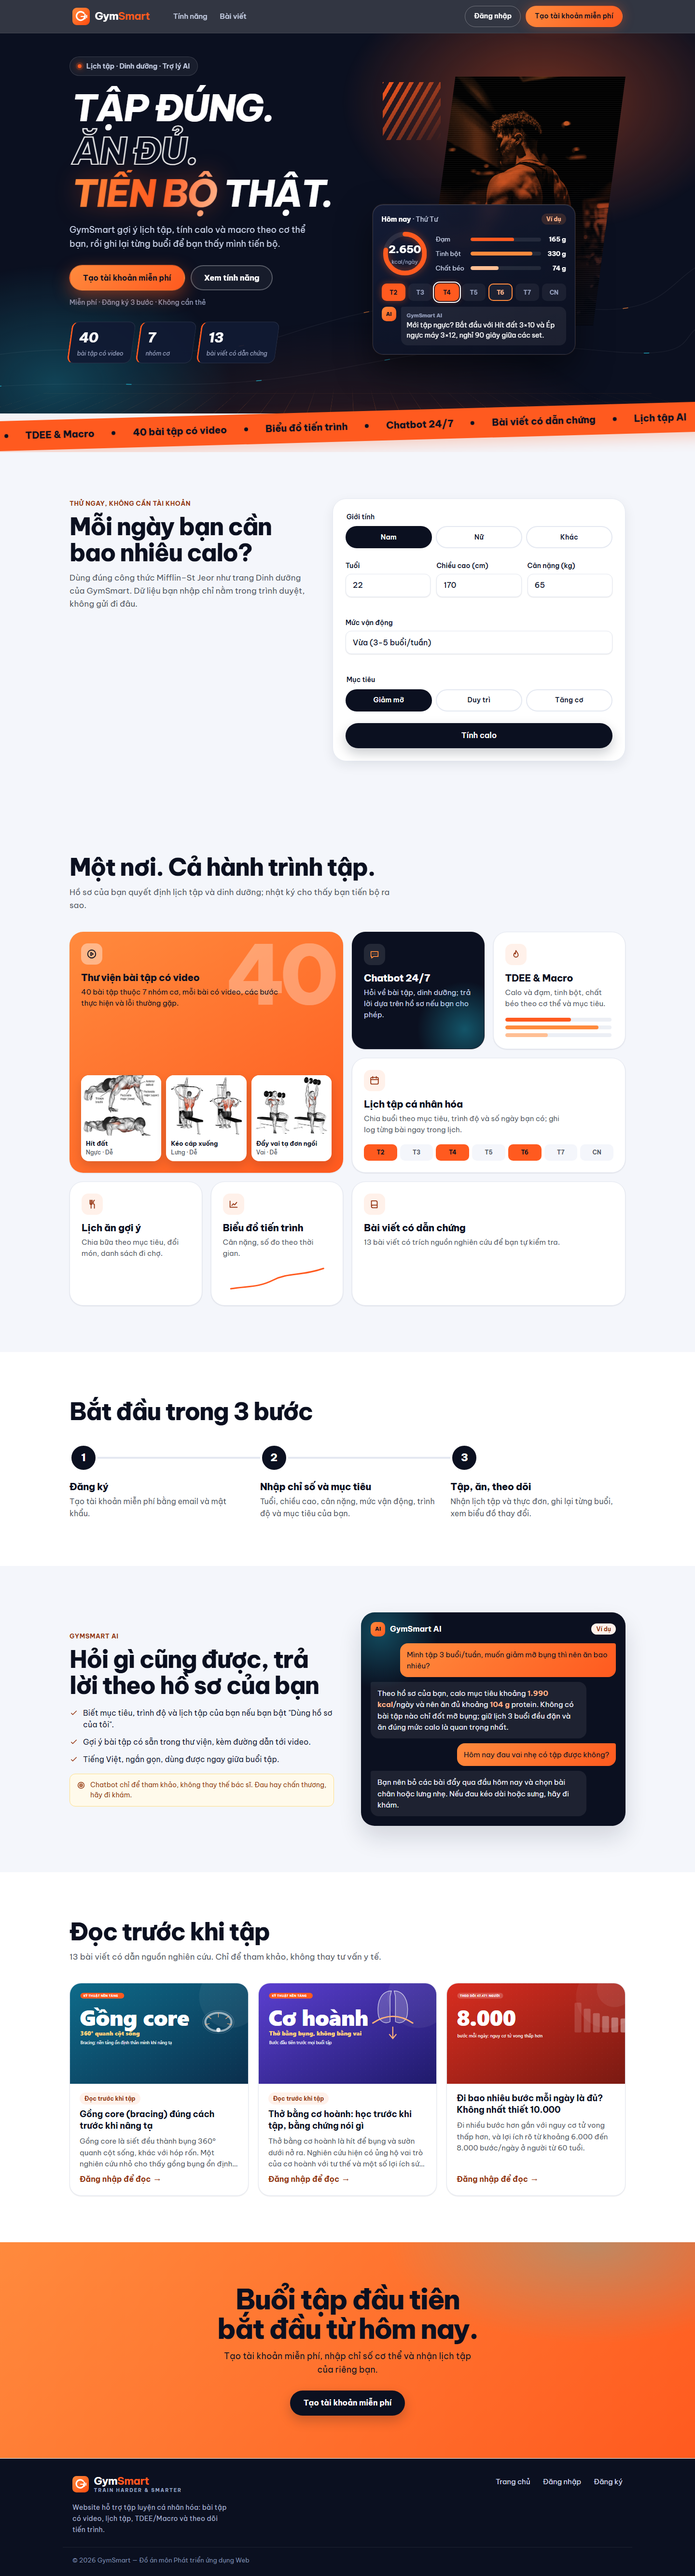
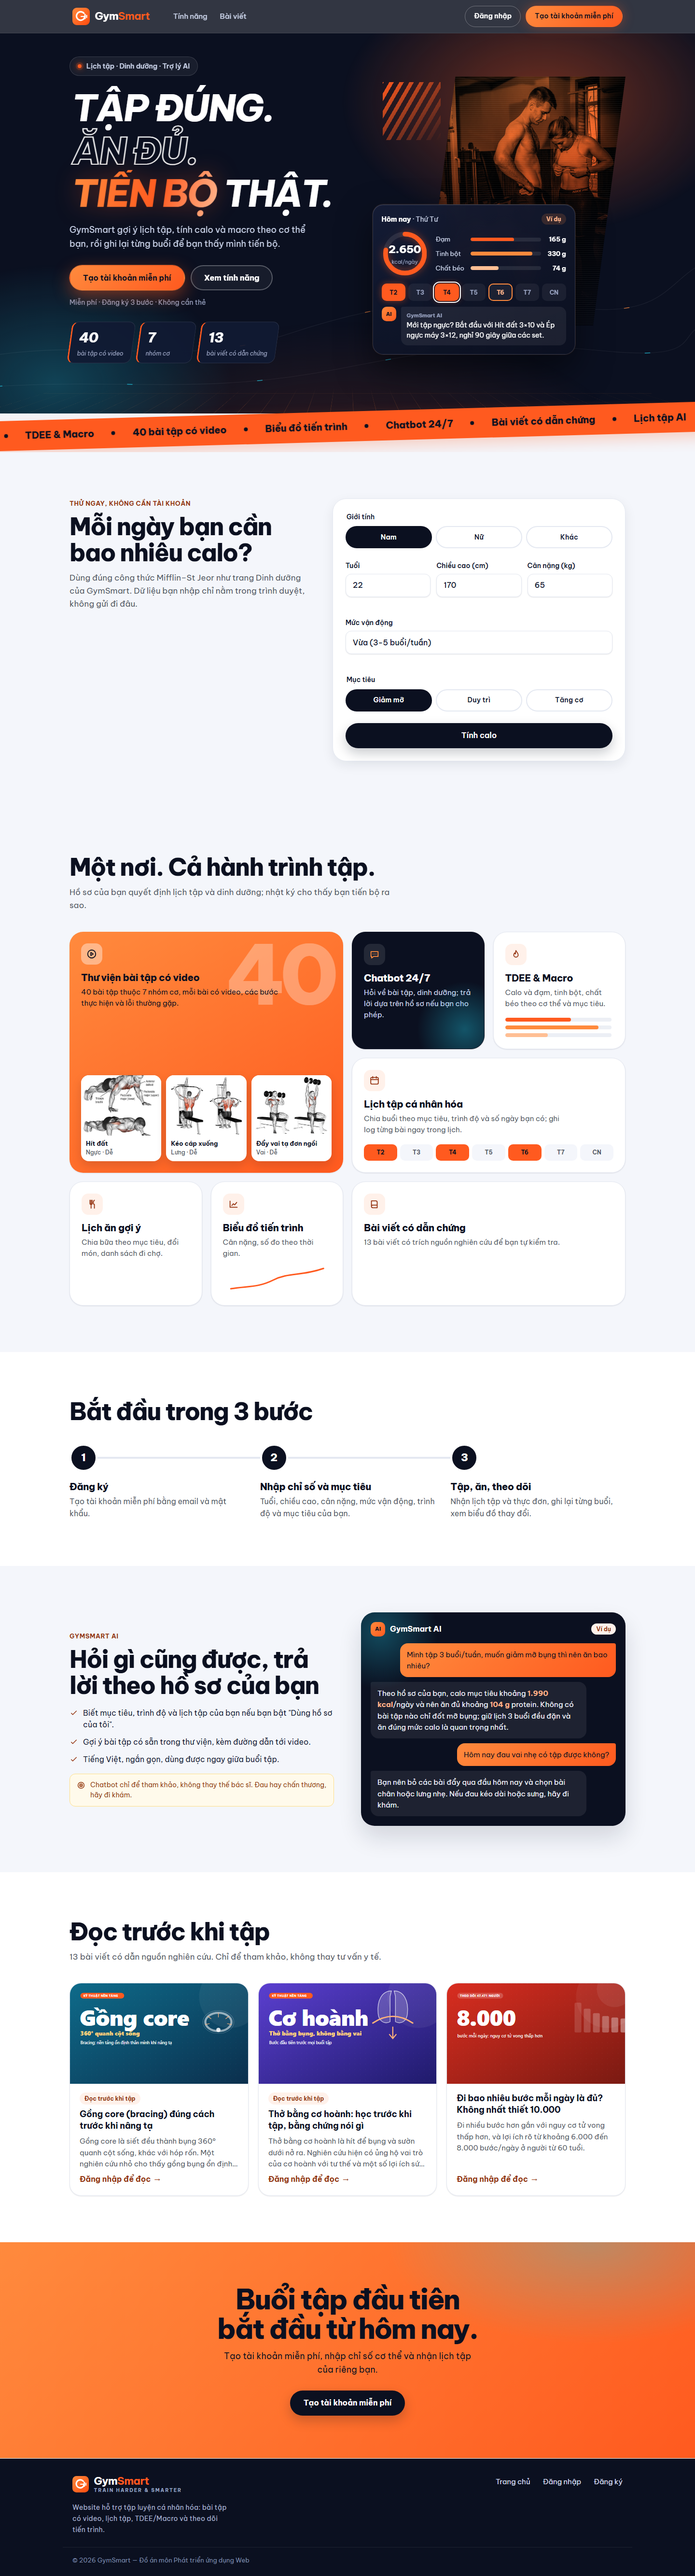
Ảnh hero mới: cặp nam nữ tập gym (Pexels, Andrej Klintsy), ghi nguồn CREDITS, cập nhật ảnh chụp trang chủ

Changed region(s): [[0.625, 0.0311, 0.9062, 0.0934]]

diff --git a/public/css/home-guest.css b/public/css/home-guest.css
@@ -105,7 +105,7 @@ body:has(.gh-hero) :is(a, button, input, select):focus-visible { outline: 3px so
 /* Ảnh cắt hình bình hành, nhuộm hai tông cam/đen, phủ vạch quét kiểu màn hình */
 .gh-stage__photo { position: absolute; top: 24px; right: 0; width: 80%; height: 86%; z-index: 1; overflow: hidden;
     clip-path: polygon(16% 0, 100% 0, 84% 100%, 0 100%); background: linear-gradient(160deg, var(--accent-2), var(--accent) 55%, var(--ink-2)); }
-.gh-stage__photo img { display: block; width: 100%; height: 100%; object-fit: cover; object-position: 50% 20%; filter: grayscale(1) contrast(1.15); mix-blend-mode: multiply; }
+.gh-stage__photo img { display: block; width: 100%; height: 100%; object-fit: cover; object-position: 50% 8%; filter: grayscale(1) contrast(1.15); mix-blend-mode: multiply; }
 .gh-stage__photo::after { content: ""; position: absolute; inset: 0; background: linear-gradient(180deg, transparent 40%, rgba(7, 11, 24, .75)); }
 .gh-stage__scan { position: absolute; inset: 0; z-index: 1; background: repeating-linear-gradient(180deg, rgba(255, 255, 255, .06) 0 1px, transparent 1px 4px); pointer-events: none; }
 /* Vạch tốc độ chéo */

diff --git a/public/includes/home-guest.php b/public/includes/home-guest.php
@@ -43,11 +43,11 @@ $ghArticles  = (int)$guestStats['sourcedArticles'];
         </div>
 
         <div class="gh-stage" id="gh-stage">
-            <!-- Ảnh trang trí: alt rỗng. Ảnh màn hình đầu: không lazy-load, tải ưu tiên. Nguồn ảnh (Unsplash License): assets/img/CREDITS.md -->
+            <!-- Ảnh trang trí: alt rỗng. Ảnh màn hình đầu: không lazy-load, tải ưu tiên. Nguồn ảnh (Pexels License): assets/img/CREDITS.md -->
             <div class="gh-stage__photo" aria-hidden="true">
                 <picture>
-                    <source type="image/webp" srcset="/assets/img/hero/hero-800.webp" width="800" height="1000">
-                    <img src="/assets/img/hero/hero-800.jpg" alt="" width="800" height="1000" fetchpriority="high" decoding="async">
+                    <source type="image/webp" srcset="/assets/img/hero/hero-pair-800.webp" width="800" height="1000">
+                    <img src="/assets/img/hero/hero-pair-800.jpg" alt="" width="800" height="1000" fetchpriority="high" decoding="async">
                 </picture>
                 <span class="gh-stage__scan"></span>
             </div>

diff --git a/public/assets/img/CREDITS.md b/public/assets/img/CREDITS.md
@@ -11,3 +11,14 @@
 | Giấy phép | [Unsplash License](https://unsplash.com/license): dùng và chỉnh sửa miễn phí, không bắt buộc ghi công. Không được bán lại ảnh khi chưa chỉnh sửa đáng kể, không được gom ảnh để làm dịch vụ tương tự Unsplash |
 | Ngày tải | 01/11/2026 |
 | Đã chỉnh sửa | Lật ngang để người tập nằm bên phải, cắt khung, đổi kích thước và nén sang WebP/JPG |
+
+## `hero/hero-pair-800.webp`, `hero-pair-800.jpg` (ảnh hero trang chủ khách từ 11/2026)
+
+| | |
+|---|---|
+| Tác giả | Andrej Klintsy ([pexels.com/@andrej-klintsy-3607566](https://www.pexels.com/@andrej-klintsy-3607566/)) |
+| Nguồn | [Pexels: A Man and Woman Standing Together while Looking at their Abs](https://www.pexels.com/photo/a-man-and-woman-standing-together-while-looking-at-their-abs-6392829/) |
+| Giấy phép | [Pexels License](https://www.pexels.com/license/): dùng và chỉnh sửa miễn phí, không bắt buộc ghi công. Không được bán lại ảnh khi chưa chỉnh sửa, không được dùng để gợi ý người trong ảnh ủng hộ sản phẩm |
+| Ngày tải | 18/11/2026 |
+| Đã chỉnh sửa | Cắt khung 4:5, đổi kích thước 800×1000, nén WebP/JPG; trên trang còn được CSS nhuộm hai tông cam/đen |
+| Ghi chú | Người mẫu ảnh stock, không phải người nổi tiếng. Trang không ghi tên hay lời trích nào của người trong ảnh |
